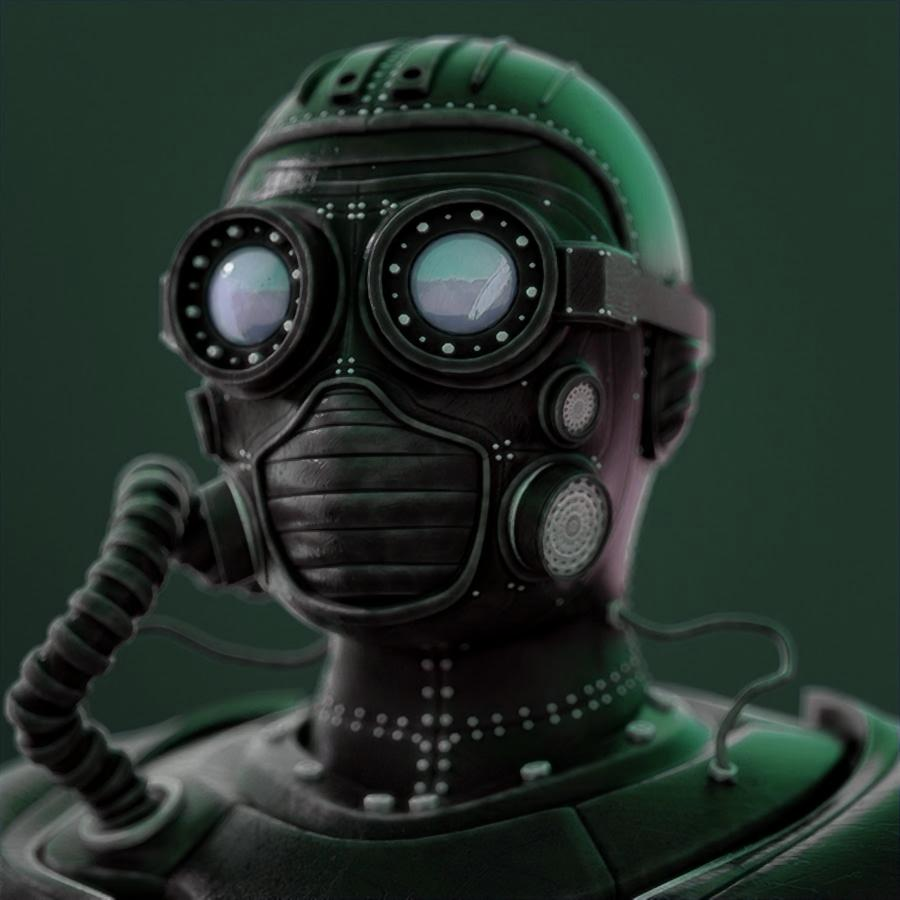
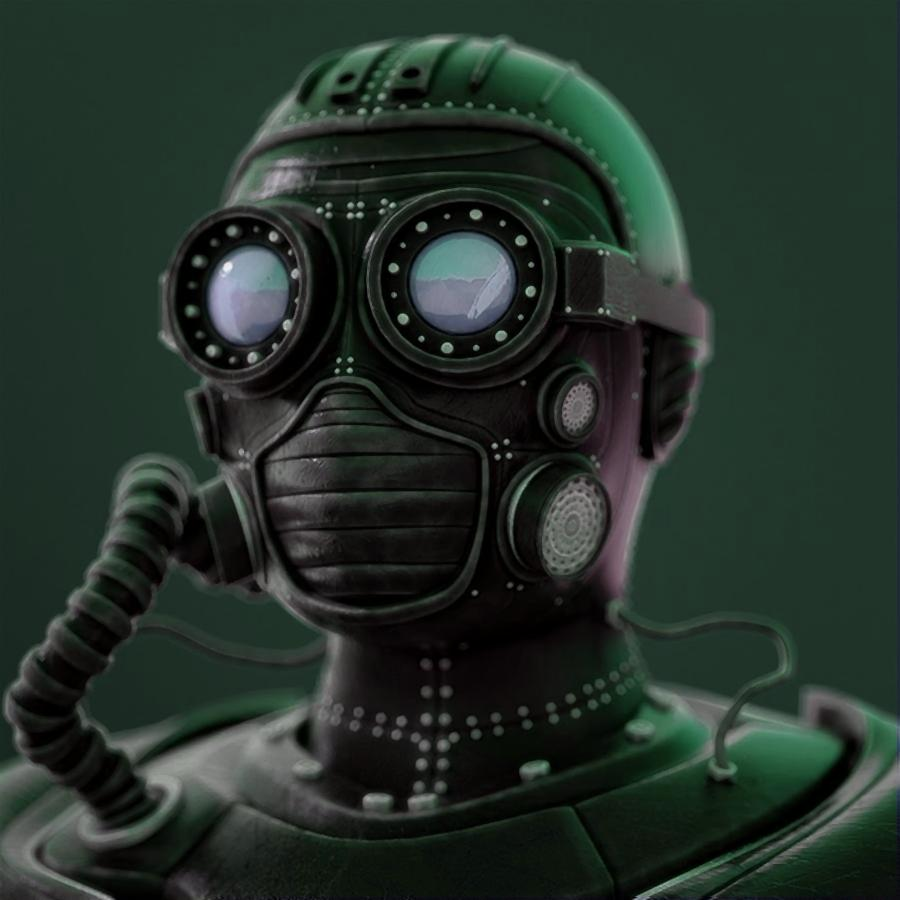
Jar 2

diff --git a/src/rtproject/RTProject.java b/src/rtproject/RTProject.java
@@ -75,44 +75,49 @@ public class RTProject implements Runnable {
                 img.setRGB(x, y, p);
  
                 
+            }
         }
     }
-}
     
     
     public static synchronized void medianfonk(BufferedImage img, int StartWidth, int StartHeight, int bolme) {
+        
+        
+       
         int width = img.getWidth()/bolme; 
         int height = img.getHeight()/bolme; 
         Color[] pixel=new Color[9];
         int[] R = new int[9];
         int[] B = new int[9];
         int[] G = new int[9];
-        for(int i = 1+StartWidth; i < width+StartWidth-1 ; i++)
-            for(int j = 1+StartHeight; j < height+StartHeight-1; j++)
+        for(int i = StartWidth; i < width+StartWidth-3 ; i++)
+            for(int j = StartHeight; j < height+StartHeight-3; j++)
             {
                /*
-               pixel[0]=new Color(img.getRGB(i-1,j-1));
+               pixel[0]=new Color(img.getRGB(i-1,j-1));               
                pixel[1]=new Color(img.getRGB(i-1,j));
-               pixel[2]=new Color(img.getRGB(i-1,j+1));
-               pixel[3]=new Color(img.getRGB(i,j+1));
-               pixel[4]=new Color(img.getRGB(i+1,j+1));
-               pixel[5]=new Color(img.getRGB(i+1,j));
+               pixel[2]=new Color(img.getRGB(i-1,j+1));               
+               pixel[3]=new Color(img.getRGB(i,j+1));               
+               pixel[4]=new Color(img.getRGB(i+1,j+1));                
+               pixel[5]=new Color(img.getRGB(i+1,j));              
                pixel[6]=new Color(img.getRGB(i+1,j-1));
                pixel[7]=new Color(img.getRGB(i,j-1));
                pixel[8]=new Color(img.getRGB(i,j));
-                
-                
-                
-               pixel[0]=new Color(img.getRGB(i,j));
-               pixel[1]=new Color(img.getRGB(i,j));
-               pixel[2]=new Color(img.getRGB(i,j+1));
-               pixel[3]=new Color(img.getRGB(i+1,j+1));
-               pixel[4]=new Color(img.getRGB(i+1,j+1));
-               pixel[5]=new Color(img.getRGB(i+1,j+1));
-               pixel[6]=new Color(img.getRGB(i+1,j));
-               pixel[7]=new Color(img.getRGB(i+1,j));
+                        */
+      
+               pixel[0]=new Color(img.getRGB(i,j));                
+               pixel[1]=new Color(img.getRGB(i,j+1));                
+               pixel[2]=new Color(img.getRGB(i,j+2));                
+               pixel[3]=new Color(img.getRGB(i+1,j+2));       
+               
+               pixel[4]=new Color(img.getRGB(i+2,j+2));
+               
+               pixel[5]=new Color(img.getRGB(i+2,j+1));                
+               pixel[6]=new Color(img.getRGB(i+2,j));                
+               pixel[7]=new Color(img.getRGB(i+1,j));                
                pixel[8]=new Color(img.getRGB(i+1,j+1));
-               */
+
+              /*
                pixel[0]=new Color(img.getRGB(i-1,j));
                pixel[1]=new Color(img.getRGB(i,j));
                pixel[2]=new Color(img.getRGB(i,j+1));
@@ -123,15 +128,16 @@ public class RTProject implements Runnable {
                pixel[7]=new Color(img.getRGB(i,j+1));
                pixel[8]=new Color(img.getRGB(i-1,j+1));
                
+               */
                
                
-               
-               
+
                for(int k=0;k<9;k++){
                    R[k]=pixel[k].getRed();
                    B[k]=pixel[k].getBlue();
                    G[k]=pixel[k].getGreen();
                }
+               
                Arrays.sort(R);
                Arrays.sort(G);
                Arrays.sort(B);
